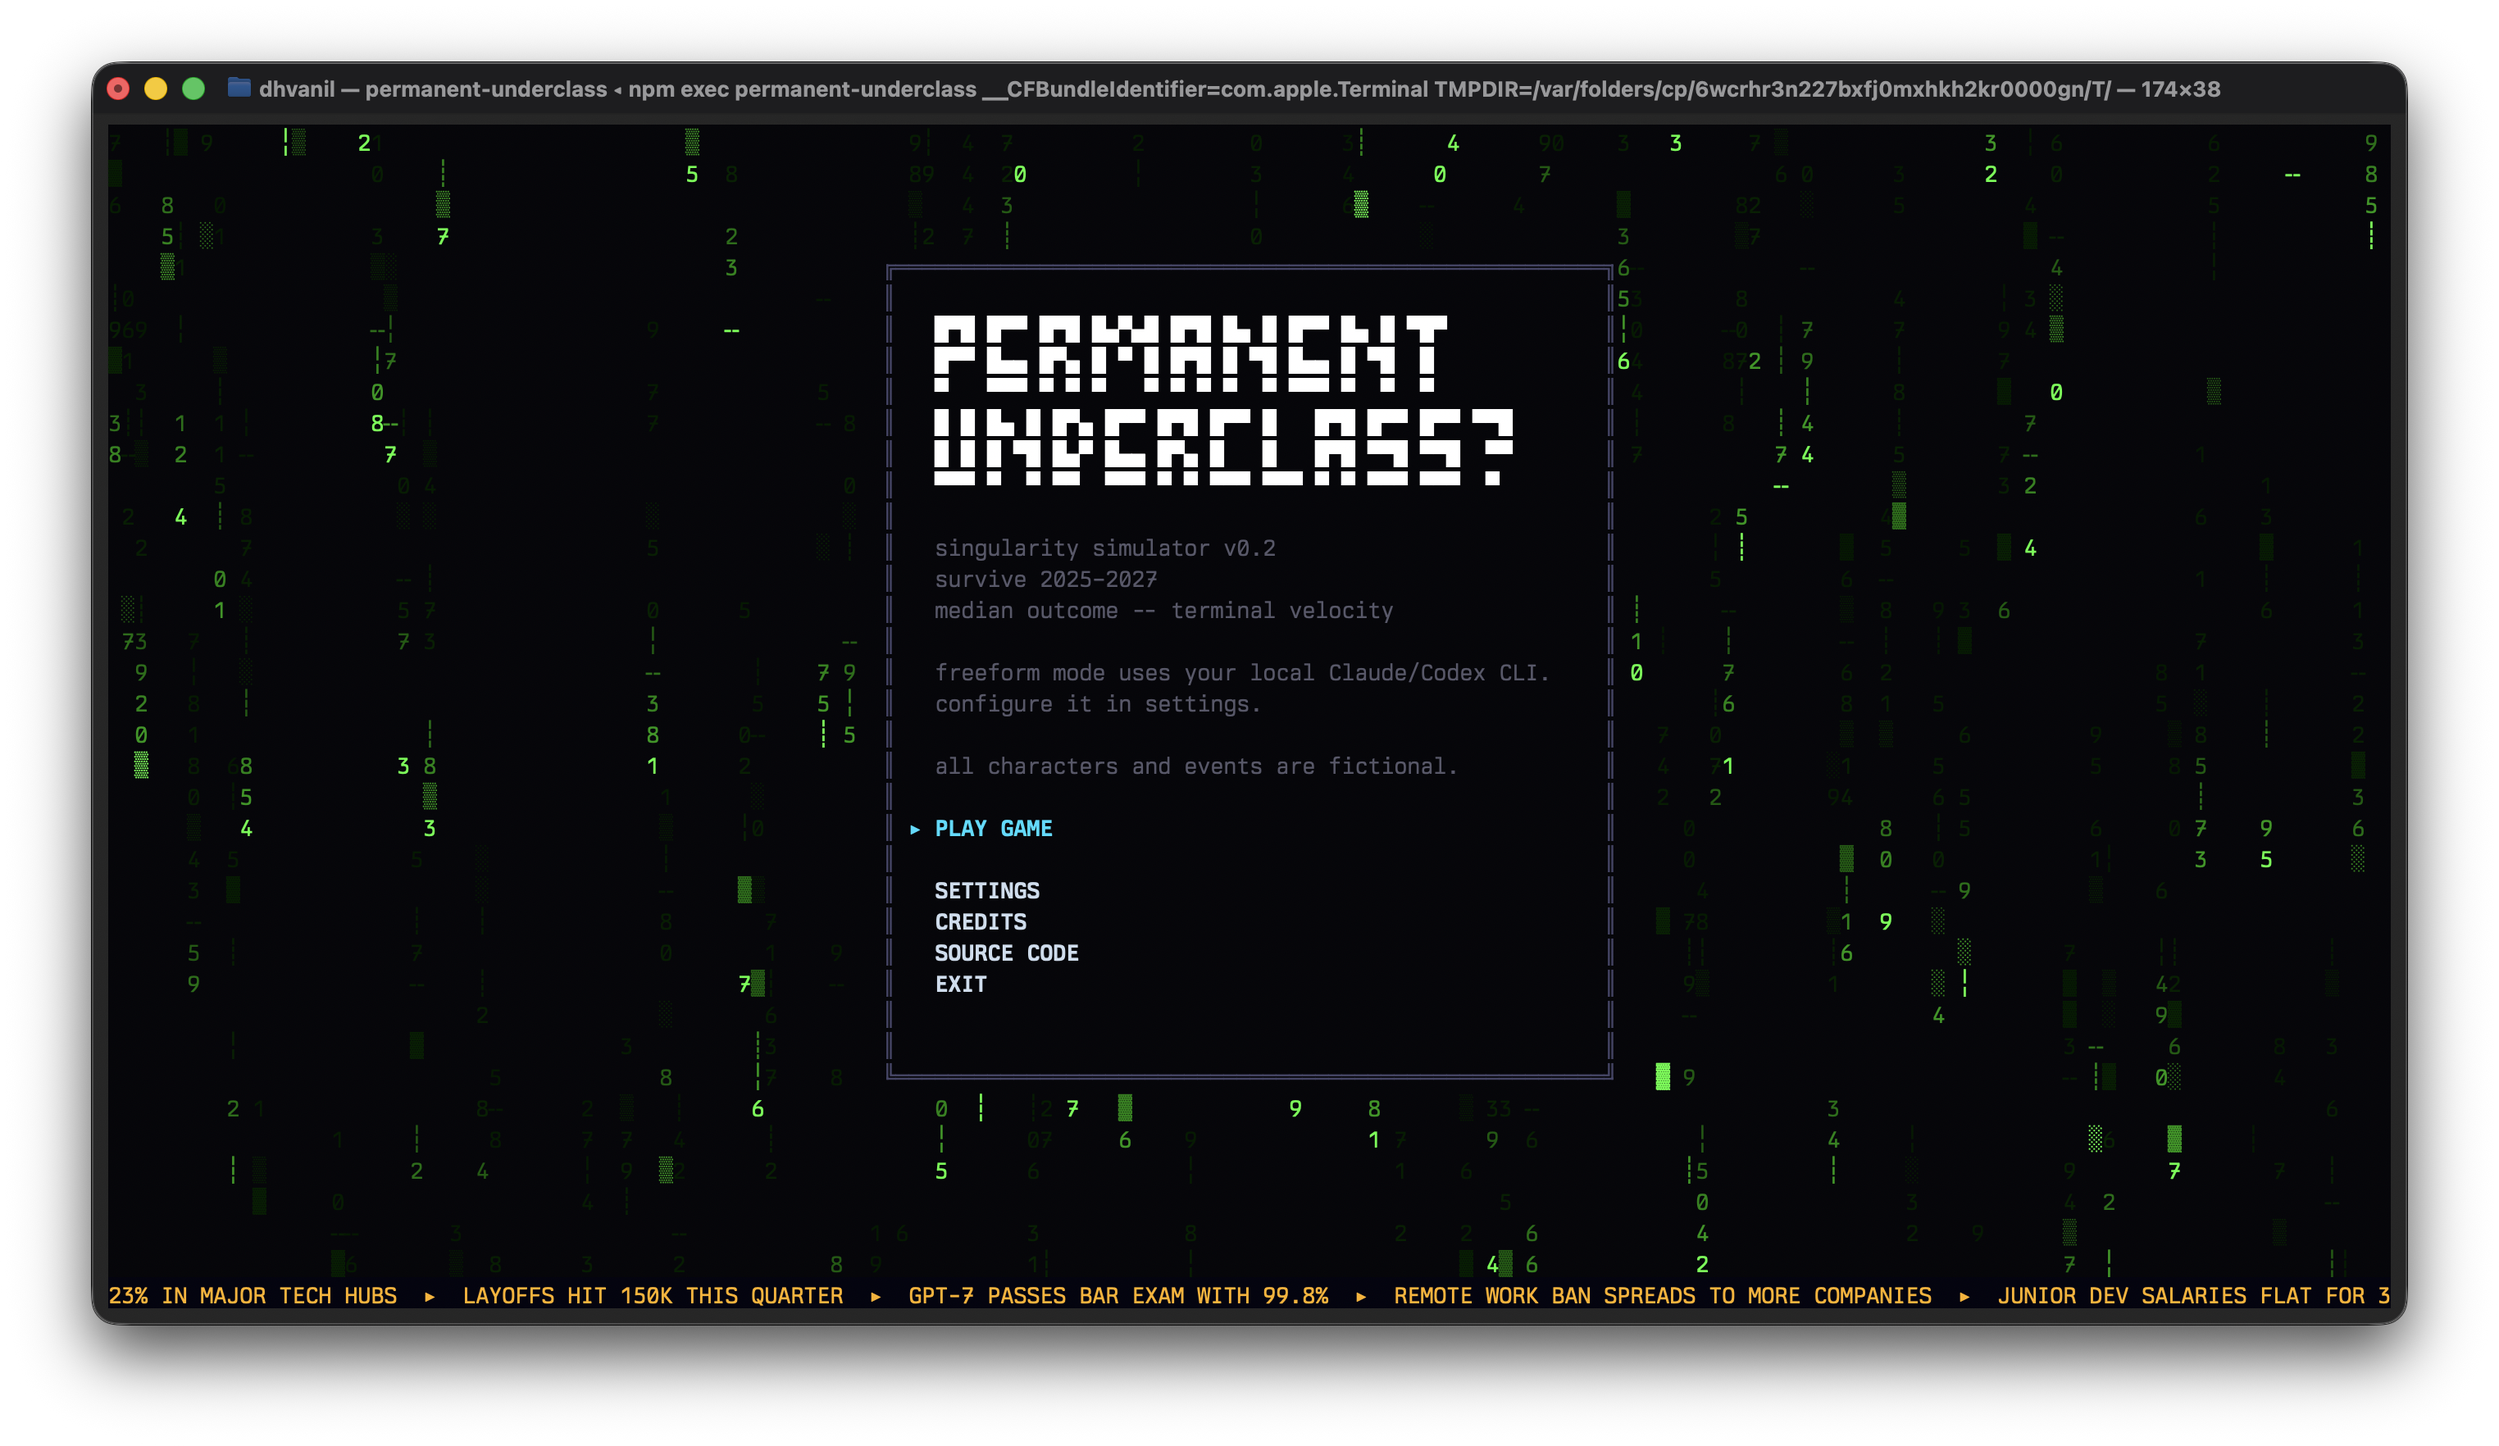
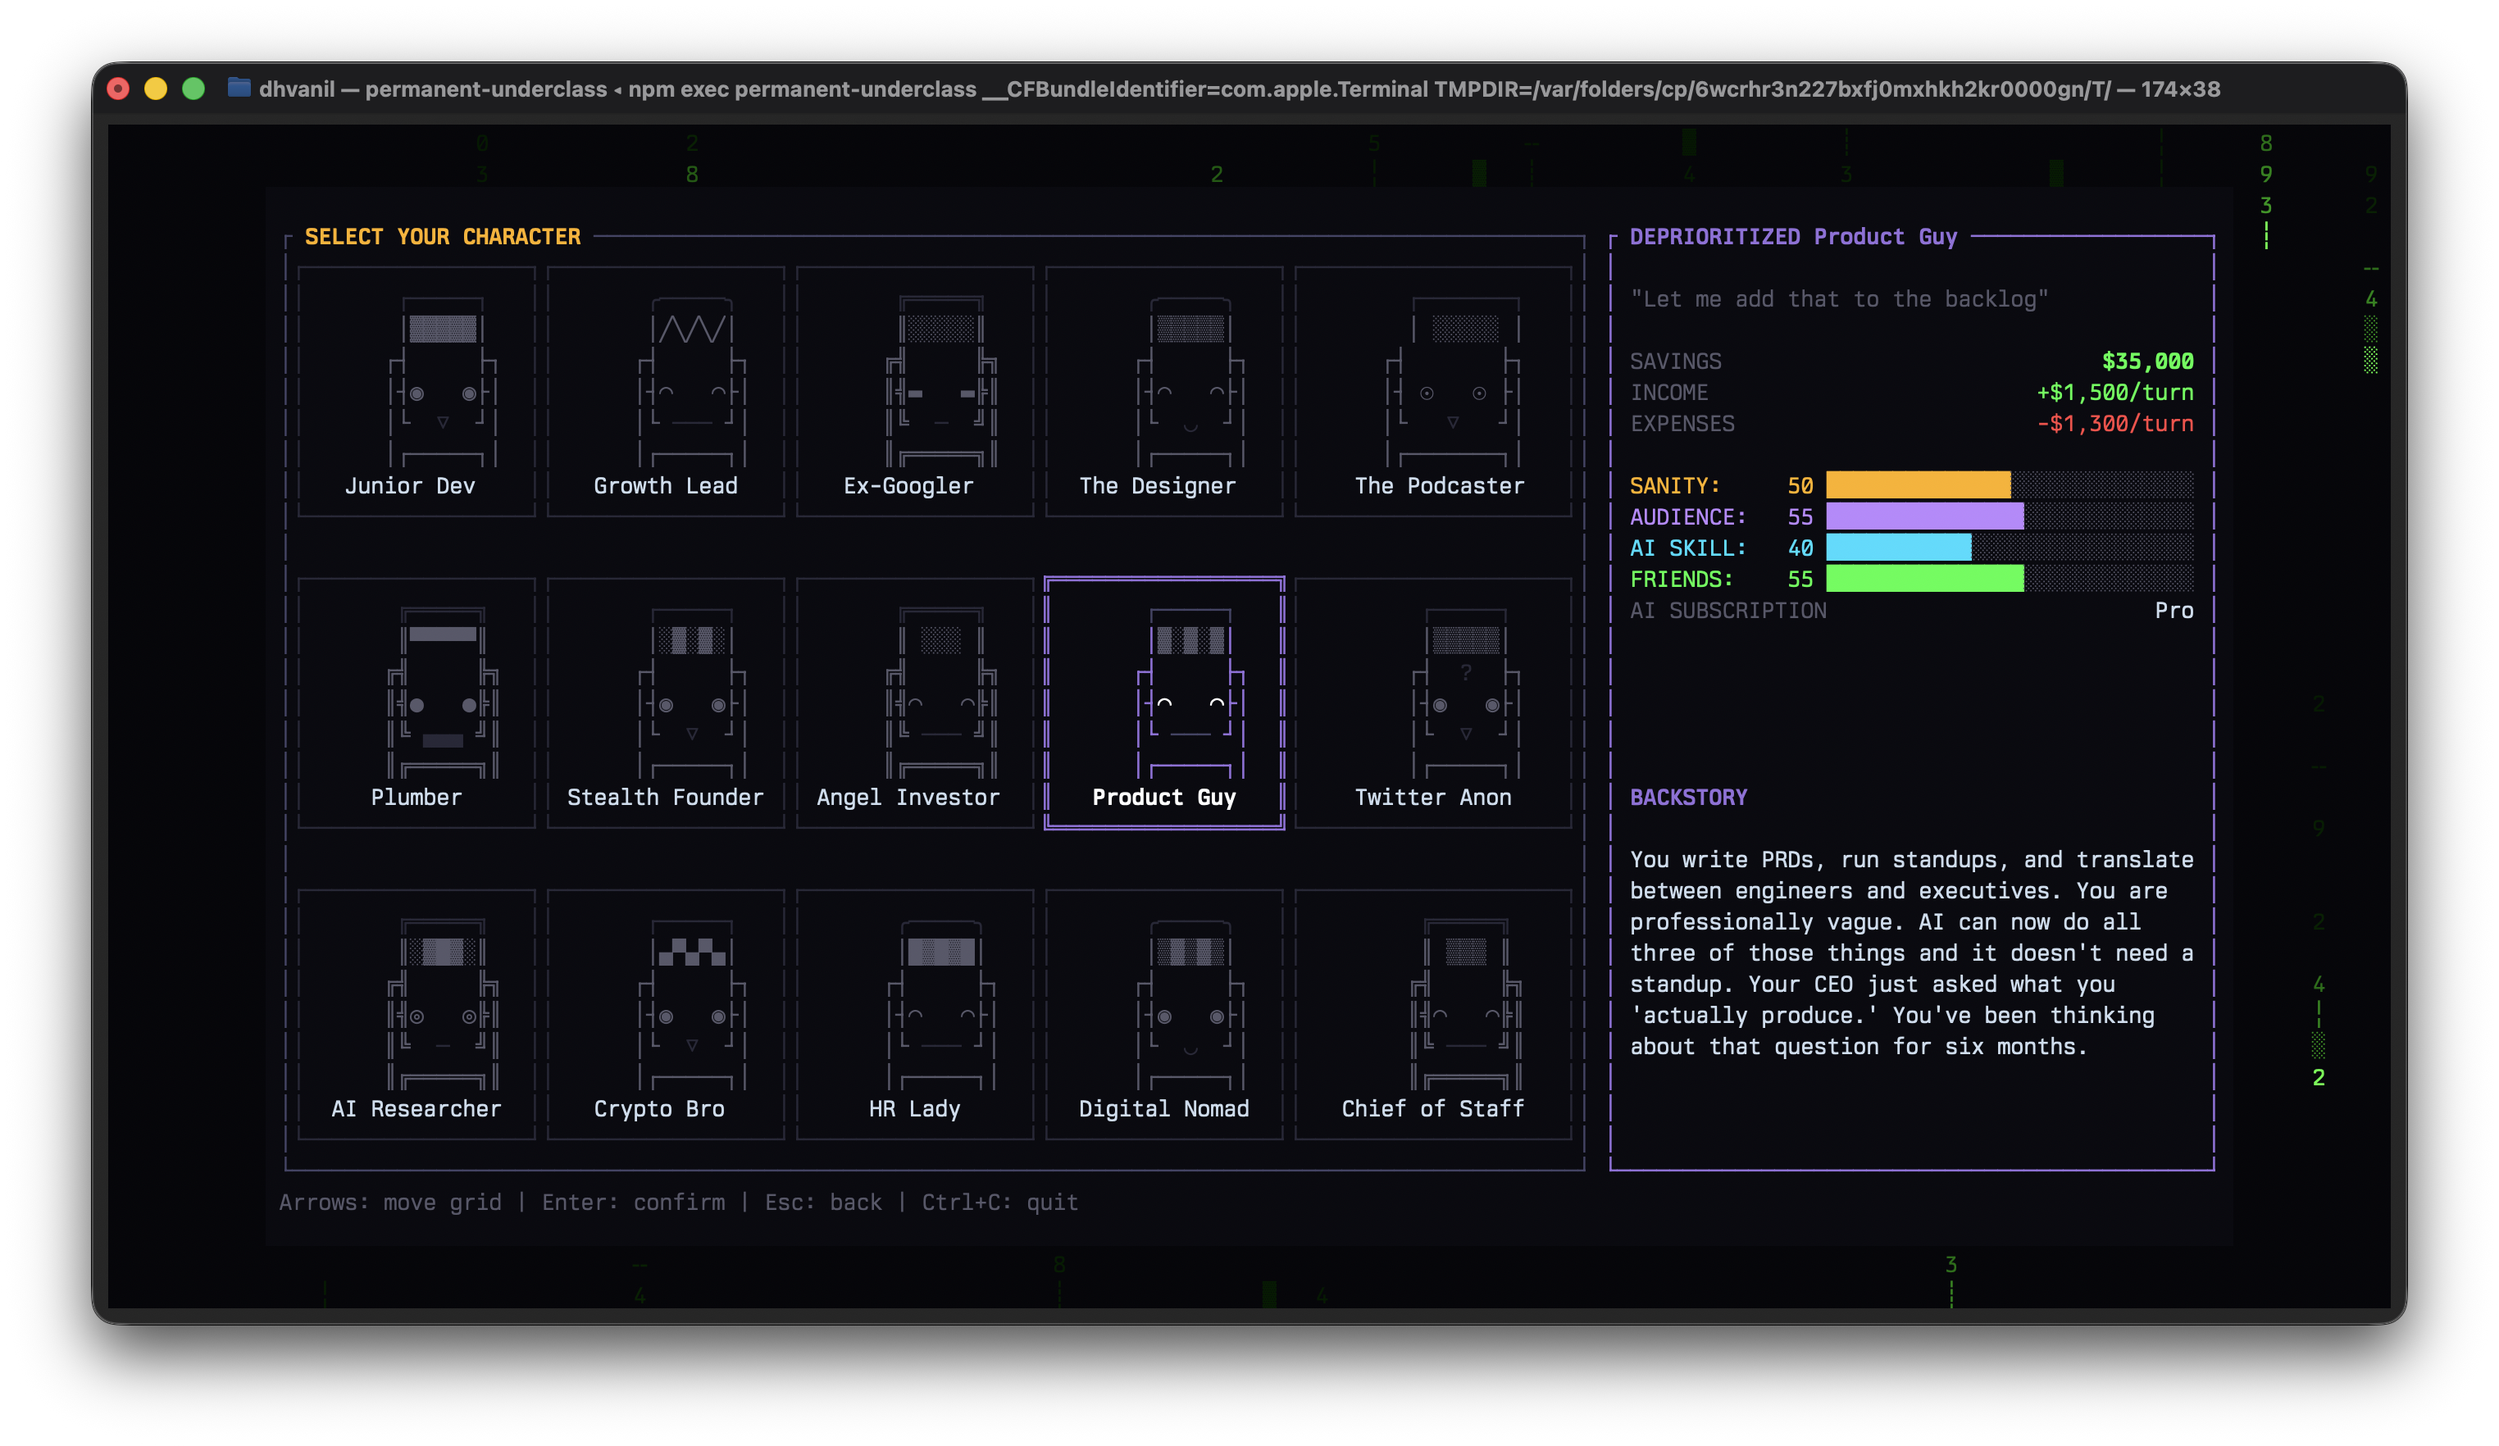
Fix README screenshot mapping and tighten intro copy

diff --git a/README.md b/README.md
@@ -13,11 +13,7 @@ You pick a character, live through a collapsing job market, and try to make it t
 - Short, replayable runs (`simple`: 12 turns, `standard`: 32 turns)
 - Character-specific event pools with different pressure profiles
 - No single correct path; tradeoffs are the point
-- Endings built for screenshots and sharing
-
-## Why It Feels Different
-
-You are not locked to the three presented choices.
+- You are not locked to the three presented choices.
 
 Press `4` and type your own move:
 
